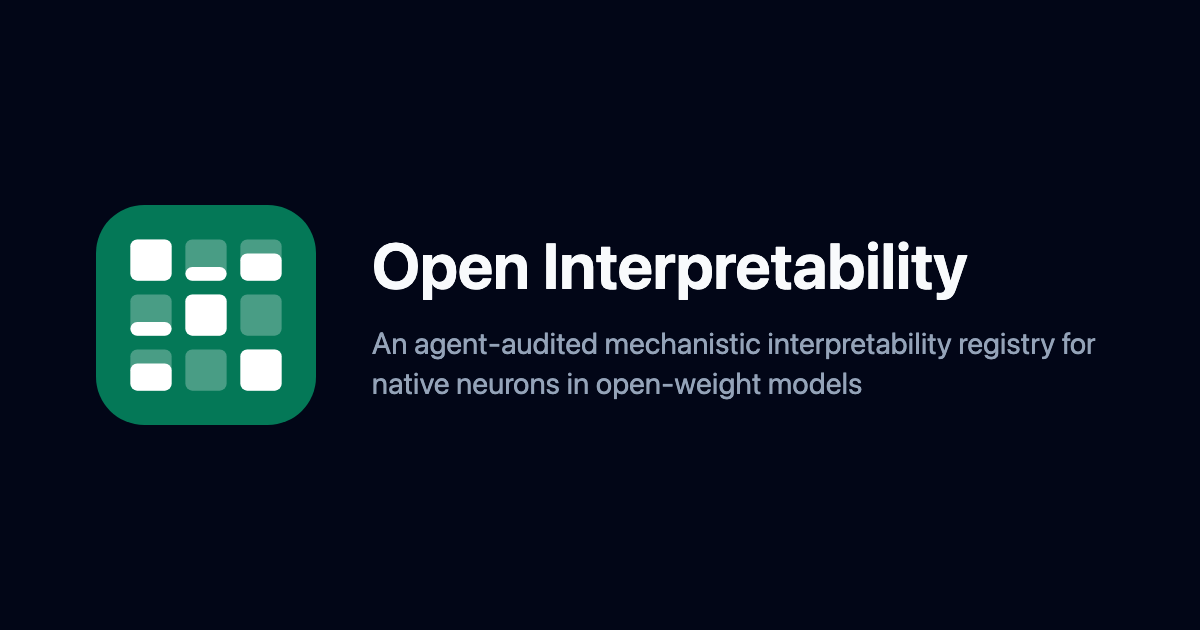
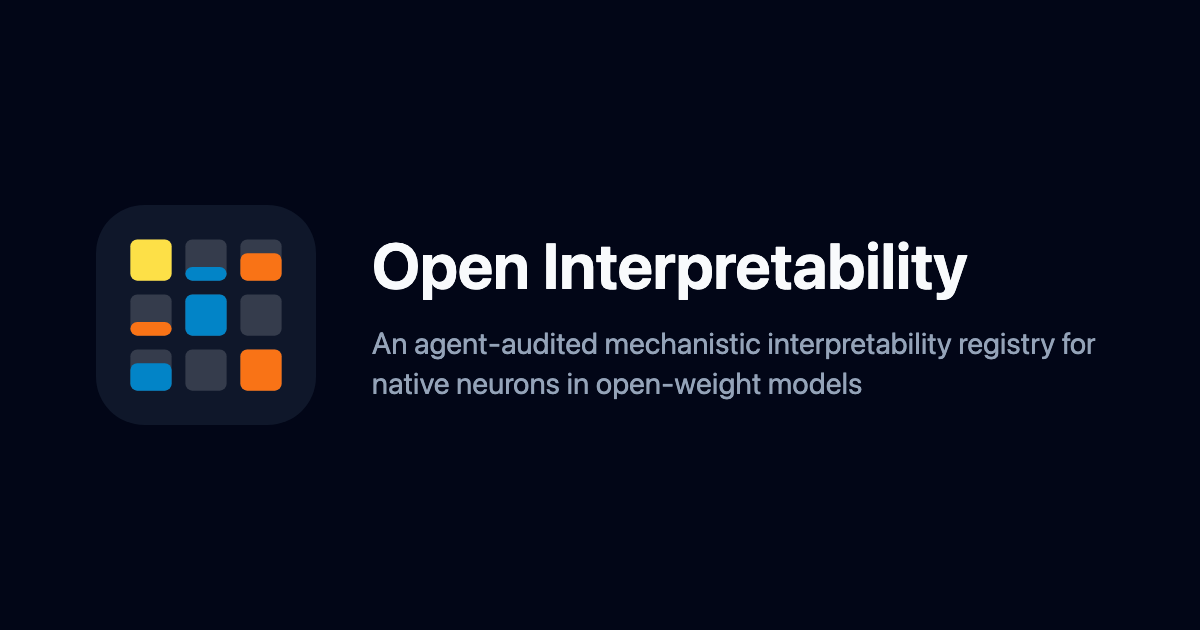
Brighter brand: the layouts' yellow, orange and blue in the mark (#4465)
The mark's layer-map squares are NEEDS_REVISION yellow, REJECTED orange
and the negative pole's sky blue on a slate-900 tile. palette.MARK_HEX
names them from the existing colours; brand.mark_svg and logo_svg draw
the SVGs from it, and scripts/brand_images.py writes them and the PNGs.
Tests check the files match and the colours differ in lightness.
The emerald site accent stays.

Changed region(s): [[0.0617, 0.3016, 0.2775, 0.6937]]

diff --git a/openinterpretability/builder/brand.py b/openinterpretability/builder/brand.py
@@ -1,8 +1,10 @@
 """The brand's files on the site: the mark, the favicon and the social image (issue #3289).
 
 The sources live in ``openinterpretability/builder/brand/``. ``mark.svg`` is the mark and
-the favicon. ``mark-32.png`` is the favicon for browsers without SVG icons. ``og.png`` is the
-image that a shared link shows. ``scripts/brand_images.py`` draws the PNGs from the mark.
+the favicon, and ``logo.svg`` adds the name. Both are drawn here from ``palette.py``
+(:func:`mark_svg`, :func:`logo_svg`, #4465), and a test checks the committed files.
+``mark-32.png`` is the favicon for browsers without SVG icons. ``og.png`` is the image that
+a shared link shows. ``scripts/brand_images.py`` draws the PNGs from the mark.
 Each build copies them to ``assets/`` (:func:`write_brand`).
 """
 
@@ -25,3 +27,56 @@ def write_brand(output_dir: Path) -> list[Path]:
         shutil.copyfile(SOURCE / name, target / name)
         out.append(target / name)
     return out
+
+
+# The mark: a 3×3 layer map, as the site's model pages draw one. Each cell is
+# (column, row, share filled, colour); an empty cell is a faint square.
+CELLS = (
+    (0, 0, 1.0, "yellow"), (1, 0, 1 / 3, "blue"), (2, 0, 2 / 3, "orange"),
+    (0, 1, 1 / 3, "orange"), (1, 1, 1.0, "blue"), (2, 1, 0.0, ""),
+    (0, 2, 2 / 3, "blue"), (1, 2, 0.0, ""), (2, 2, 1.0, "orange"),
+)  # fmt: skip
+NAME = "Open Interpretability"
+FONT = "ui-sans-serif, system-ui, -apple-system, 'Segoe UI', sans-serif"
+
+
+def _cells(indent: str) -> list[str]:
+    from openinterpretability.builder.palette import MARK_HEX, MARK_TILE
+
+    out = [f'{indent}<rect width="32" height="32" rx="7" fill="{MARK_TILE}"/>']
+    for col, row, share, colour in CELLS:
+        x, y = 5 + 8 * col, 5 + 8 * row
+        out.append(f'{indent}<rect x="{x}" y="{y}" width="6" height="6" rx="1" '
+                   'fill="#ffffff" fill-opacity="0.16"/>')  # fmt: skip
+        if share:
+            h, top = round(6 * share, 2), round(y + 6 - 6 * share, 2)
+            out.append(f'{indent}<rect x="{x}" y="{top:g}" width="6" height="{h:g}" '
+                       f'rx="1" fill="{MARK_HEX[colour]}"/>')  # fmt: skip
+    return out
+
+
+def mark_svg() -> str:
+    """The mark and favicon, from the palette's colours."""
+    head = ('<svg xmlns="http://www.w3.org/2000/svg" viewBox="0 0 32 32" role="img" '
+            f'aria-label="{NAME}">')  # fmt: skip
+    return "\n".join([head, *_cells("  "), "</svg>"]) + "\n"
+
+
+def logo_svg() -> str:
+    """The mark with the name beside it, the name in the page's ink."""
+    from openinterpretability.builder.palette import INK
+
+    style = (f"  <style>.name {{ fill: {INK['light']}; }} @media (prefers-color-scheme: dark) "
+             f"{{ .name {{ fill: {INK['dark']}; }} }}</style>")  # fmt: skip
+    text = (f'  <text x="48" y="28" font-family="{FONT}" font-size="21" font-weight="600" '
+            f'class="name">{NAME}</text>')  # fmt: skip
+    lines = ['<svg xmlns="http://www.w3.org/2000/svg" viewBox="0 0 330 40" role="img" '
+             f'aria-label="{NAME}">', style, '  <g transform="translate(4 4)">',
+             *_cells("    "), "  </g>", text, "</svg>"]  # fmt: skip
+    return "\n".join(lines) + "\n"
+
+
+def write_svgs(folder: Path = SOURCE) -> None:
+    """Write ``mark.svg`` and ``logo.svg`` from the palette."""
+    (folder / "mark.svg").write_text(mark_svg(), encoding="utf-8")
+    (folder / "logo.svg").write_text(logo_svg(), encoding="utf-8")

diff --git a/tests/test_brand.py b/tests/test_brand.py
@@ -43,3 +43,27 @@ def test_the_accent_has_one_name():
         capture_output=True, text=True, check=False,
     ).stdout  # fmt: skip
     assert found == ""  # templates name the accent `brand-`, defined once in palette.py
+
+
+def test_the_mark_and_logo_are_drawn_from_the_palette():
+    # The committed SVGs are the generated ones, so the colours have one source (#4465).
+    assert (brand.SOURCE / "mark.svg").read_text(encoding="utf-8") == brand.mark_svg()
+    assert (brand.SOURCE / "logo.svg").read_text(encoding="utf-8") == brand.logo_svg()
+    used = {c for _, _, share, c in brand.CELLS if share}
+    assert used == set(palette.MARK_HEX)
+    layouts = {*palette.STATUS_HEX.values(), *palette.POLE_HEX.values()}
+    assert set(palette.MARK_HEX.values()) <= layouts
+    for hex_colour in palette.MARK_HEX.values():
+        assert hex_colour in brand.mark_svg()
+
+
+def test_the_mark_colours_differ_in_lightness_and_stand_out_on_the_tile():
+    import itertools
+
+    from tests.test_palette import contrast, linear, oklab
+
+    lightness = {n: oklab(linear(h))[0] for n, h in palette.MARK_HEX.items()}
+    for a, b in itertools.combinations(lightness, 2):
+        assert abs(lightness[a] - lightness[b]) >= 0.1, (a, b)  # not hue alone (deuteranopia)
+    for name, hex_colour in palette.MARK_HEX.items():
+        assert contrast(hex_colour, palette.MARK_TILE) >= 3.0, name

diff --git a/scripts/brand_images.py b/scripts/brand_images.py
@@ -6,8 +6,9 @@ The mark is ``openinterpretability/builder/brand/mark.svg``. This script writes,
 - ``og.png``: the 1,200 × 630 image that a shared link shows (Open Graph and Twitter cards).
   It is also GitHub's social preview, which the maintainer uploads in the repository's settings.
 
-The PNGs are committed, so the site build needs no browser. Run this again after a change
-to the mark or the project's description::
+It first writes ``mark.svg`` and ``logo.svg`` from the palette (``brand.write_svgs``). The
+PNGs are committed, so the site build needs no browser. Run this again after a change to
+the palette's mark colours or the project's description::
 
     uv run python scripts/brand_images.py
 """
@@ -63,6 +64,9 @@ def shoot(browser: str, page: str, out: Path, size: tuple[int, int]) -> None:
 
 def main() -> None:
     """Write every PNG in :data:`SIZES` from the mark."""
+    from openinterpretability.builder.brand import write_svgs
+
+    write_svgs()  # the SVGs first, from palette.py (#4465)
     browser = chrome()
     if browser is None:
         raise SystemExit("No Chrome found: set $OPENINTERPRETABILITY_CHROME.")

diff --git a/openinterpretability/builder/palette.py b/openinterpretability/builder/palette.py
@@ -30,6 +30,16 @@ BRAND_HEX = {
     500: "#10b981", 600: "#059669", 700: "#047857", 800: "#065f46", 900: "#064e3b",
     950: "#022c22",
 }  # fmt: skip
+# The mark's colours: the model layouts' own yellow, orange and blue (#4465). VERIFIED's blue
+# is too dark for the dark tile, so the blue is the negative pole's sky. They differ in
+# lightness as well as hue, and none is a green.
+MARK_HEX = {
+    "yellow": STATUS_HEX["NEEDS_REVISION"],
+    "orange": STATUS_HEX["REJECTED"],
+    "blue": POLE_HEX["negative"],
+}
+MARK_TILE = "#0F172A"  # Tailwind's slate-900: the mark's tile
+INK = {"light": "#0F172A", "dark": "#F8FAFC"}  # the wordmark: slate-900, and slate-50 in dark mode
 # Light and dark page surfaces (base.html: bg-white, dark:bg-slate-950).
 SURFACES = {"light": "#FFFFFF", "dark": "#020617"}
 

diff --git a/changelog.d/4465.changed.md b/changelog.d/4465.changed.md
@@ -1,0 +1,1 @@
+- The mark and logo are brighter. The squares of the small layer map are now the model layouts' own yellow, orange and blue. They sit on a dark tile, in place of white on emerald. The colours differ in lightness, not only in hue, and none is a green. `palette.py` holds them once (`MARK_HEX`), and the SVGs are drawn from it, with a test that the committed files match. The site's emerald accent stays, as the one hue no status or pole uses, so a link never reads as data (#4465).
